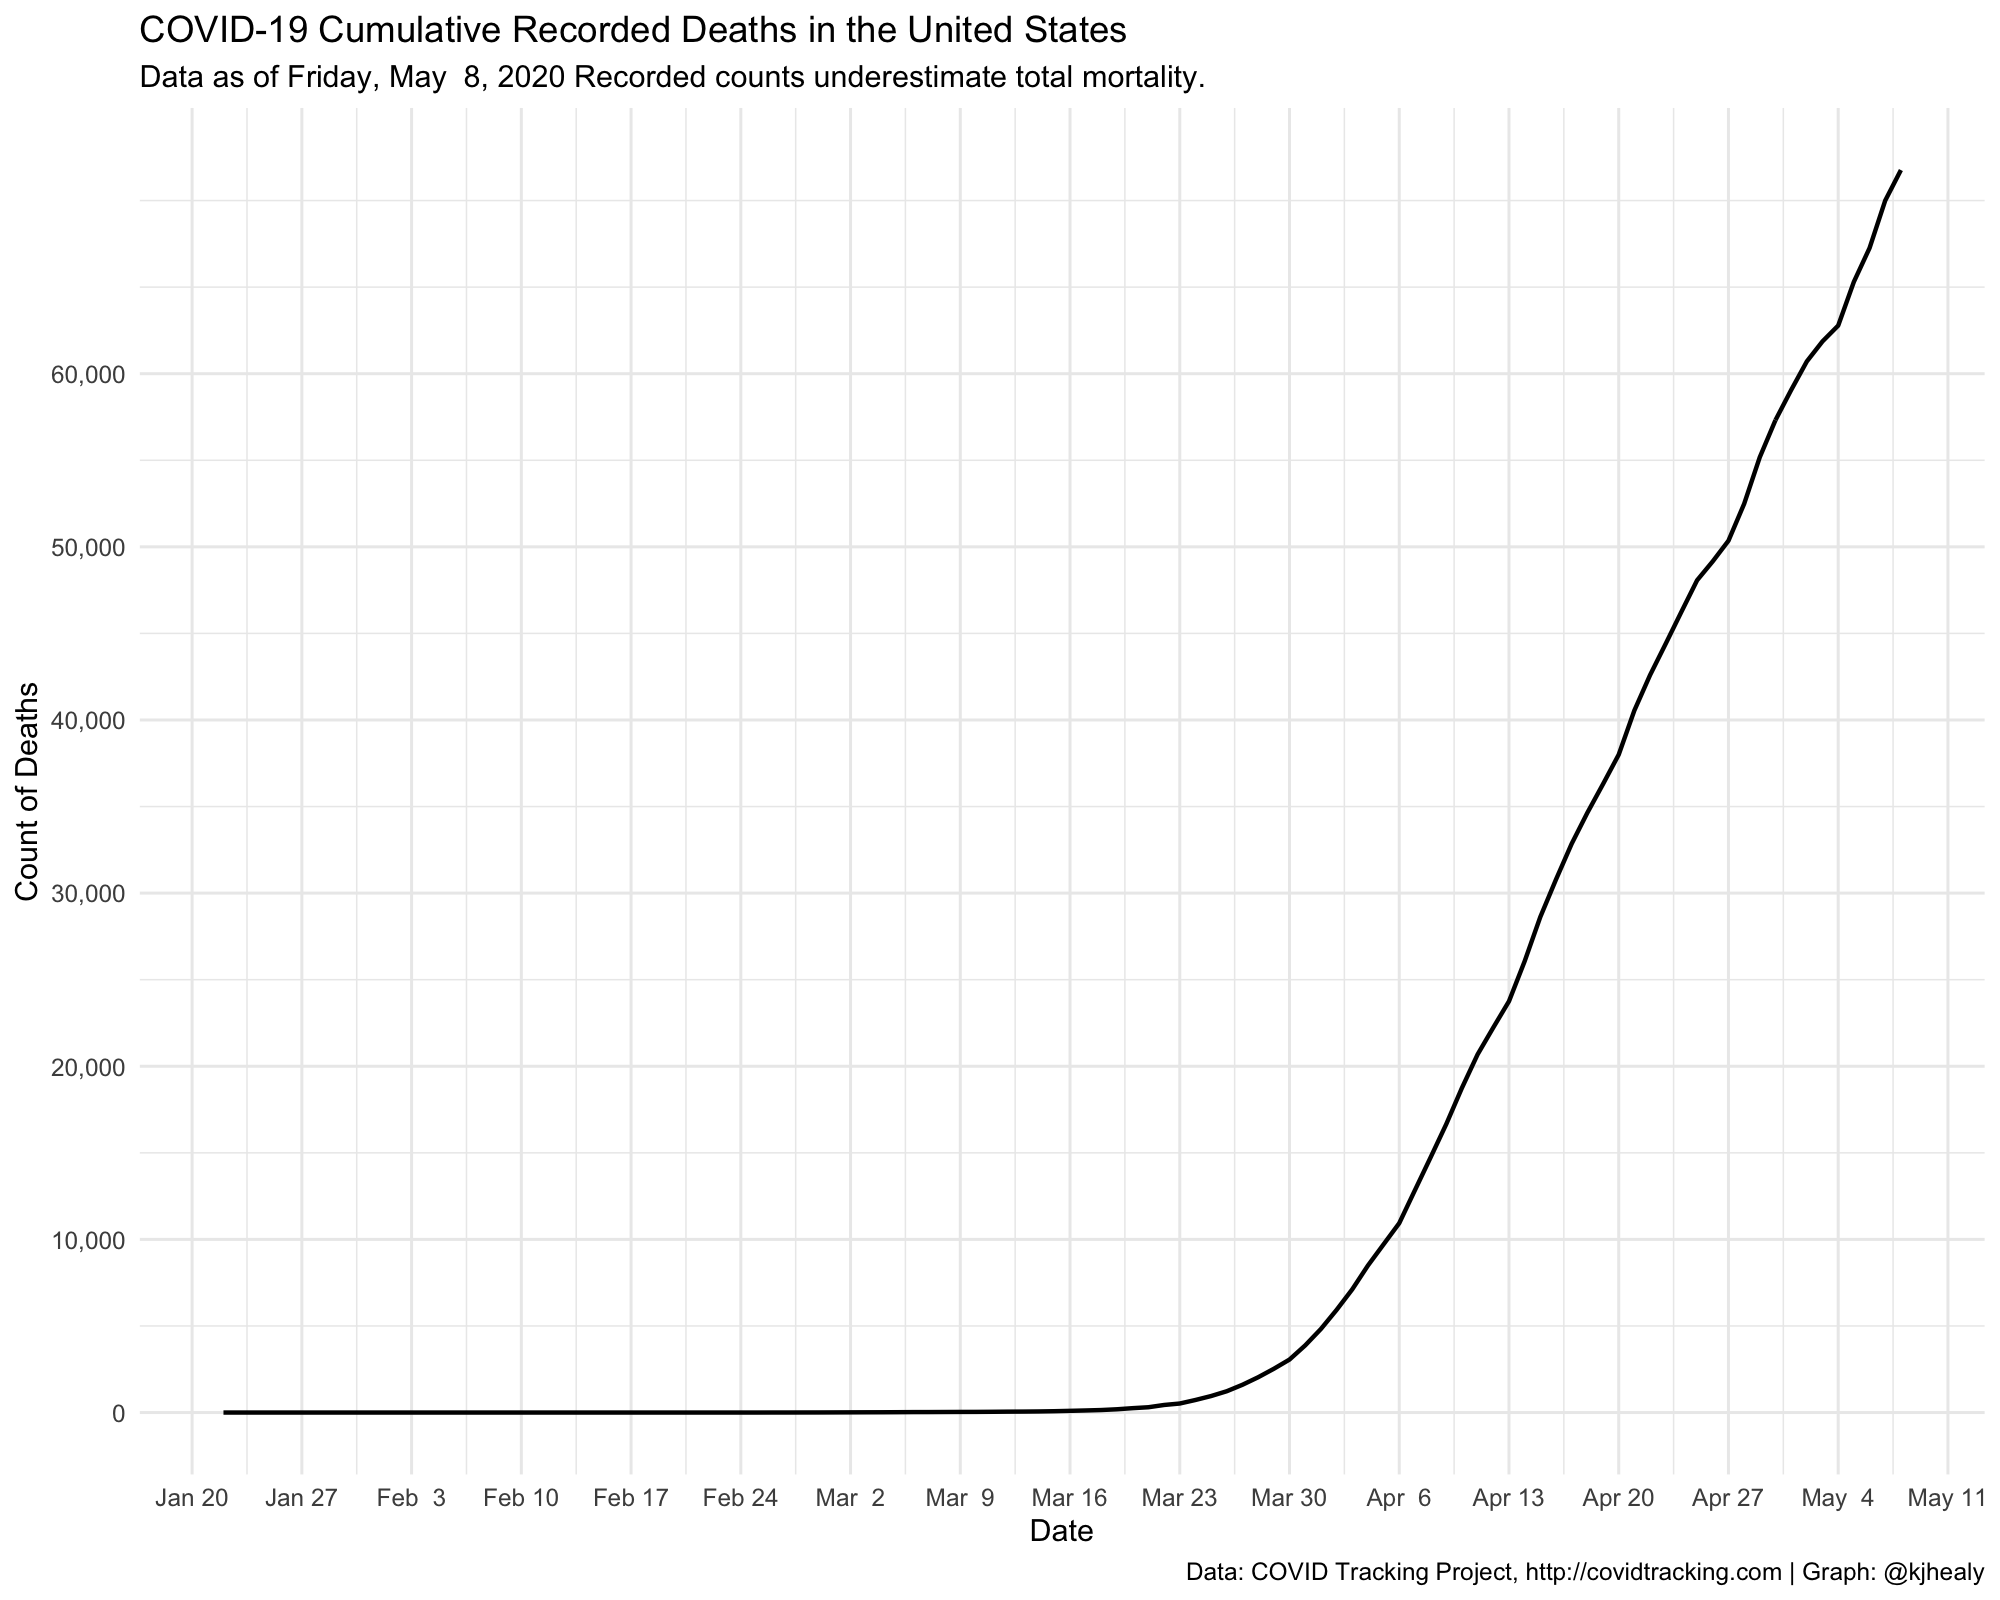
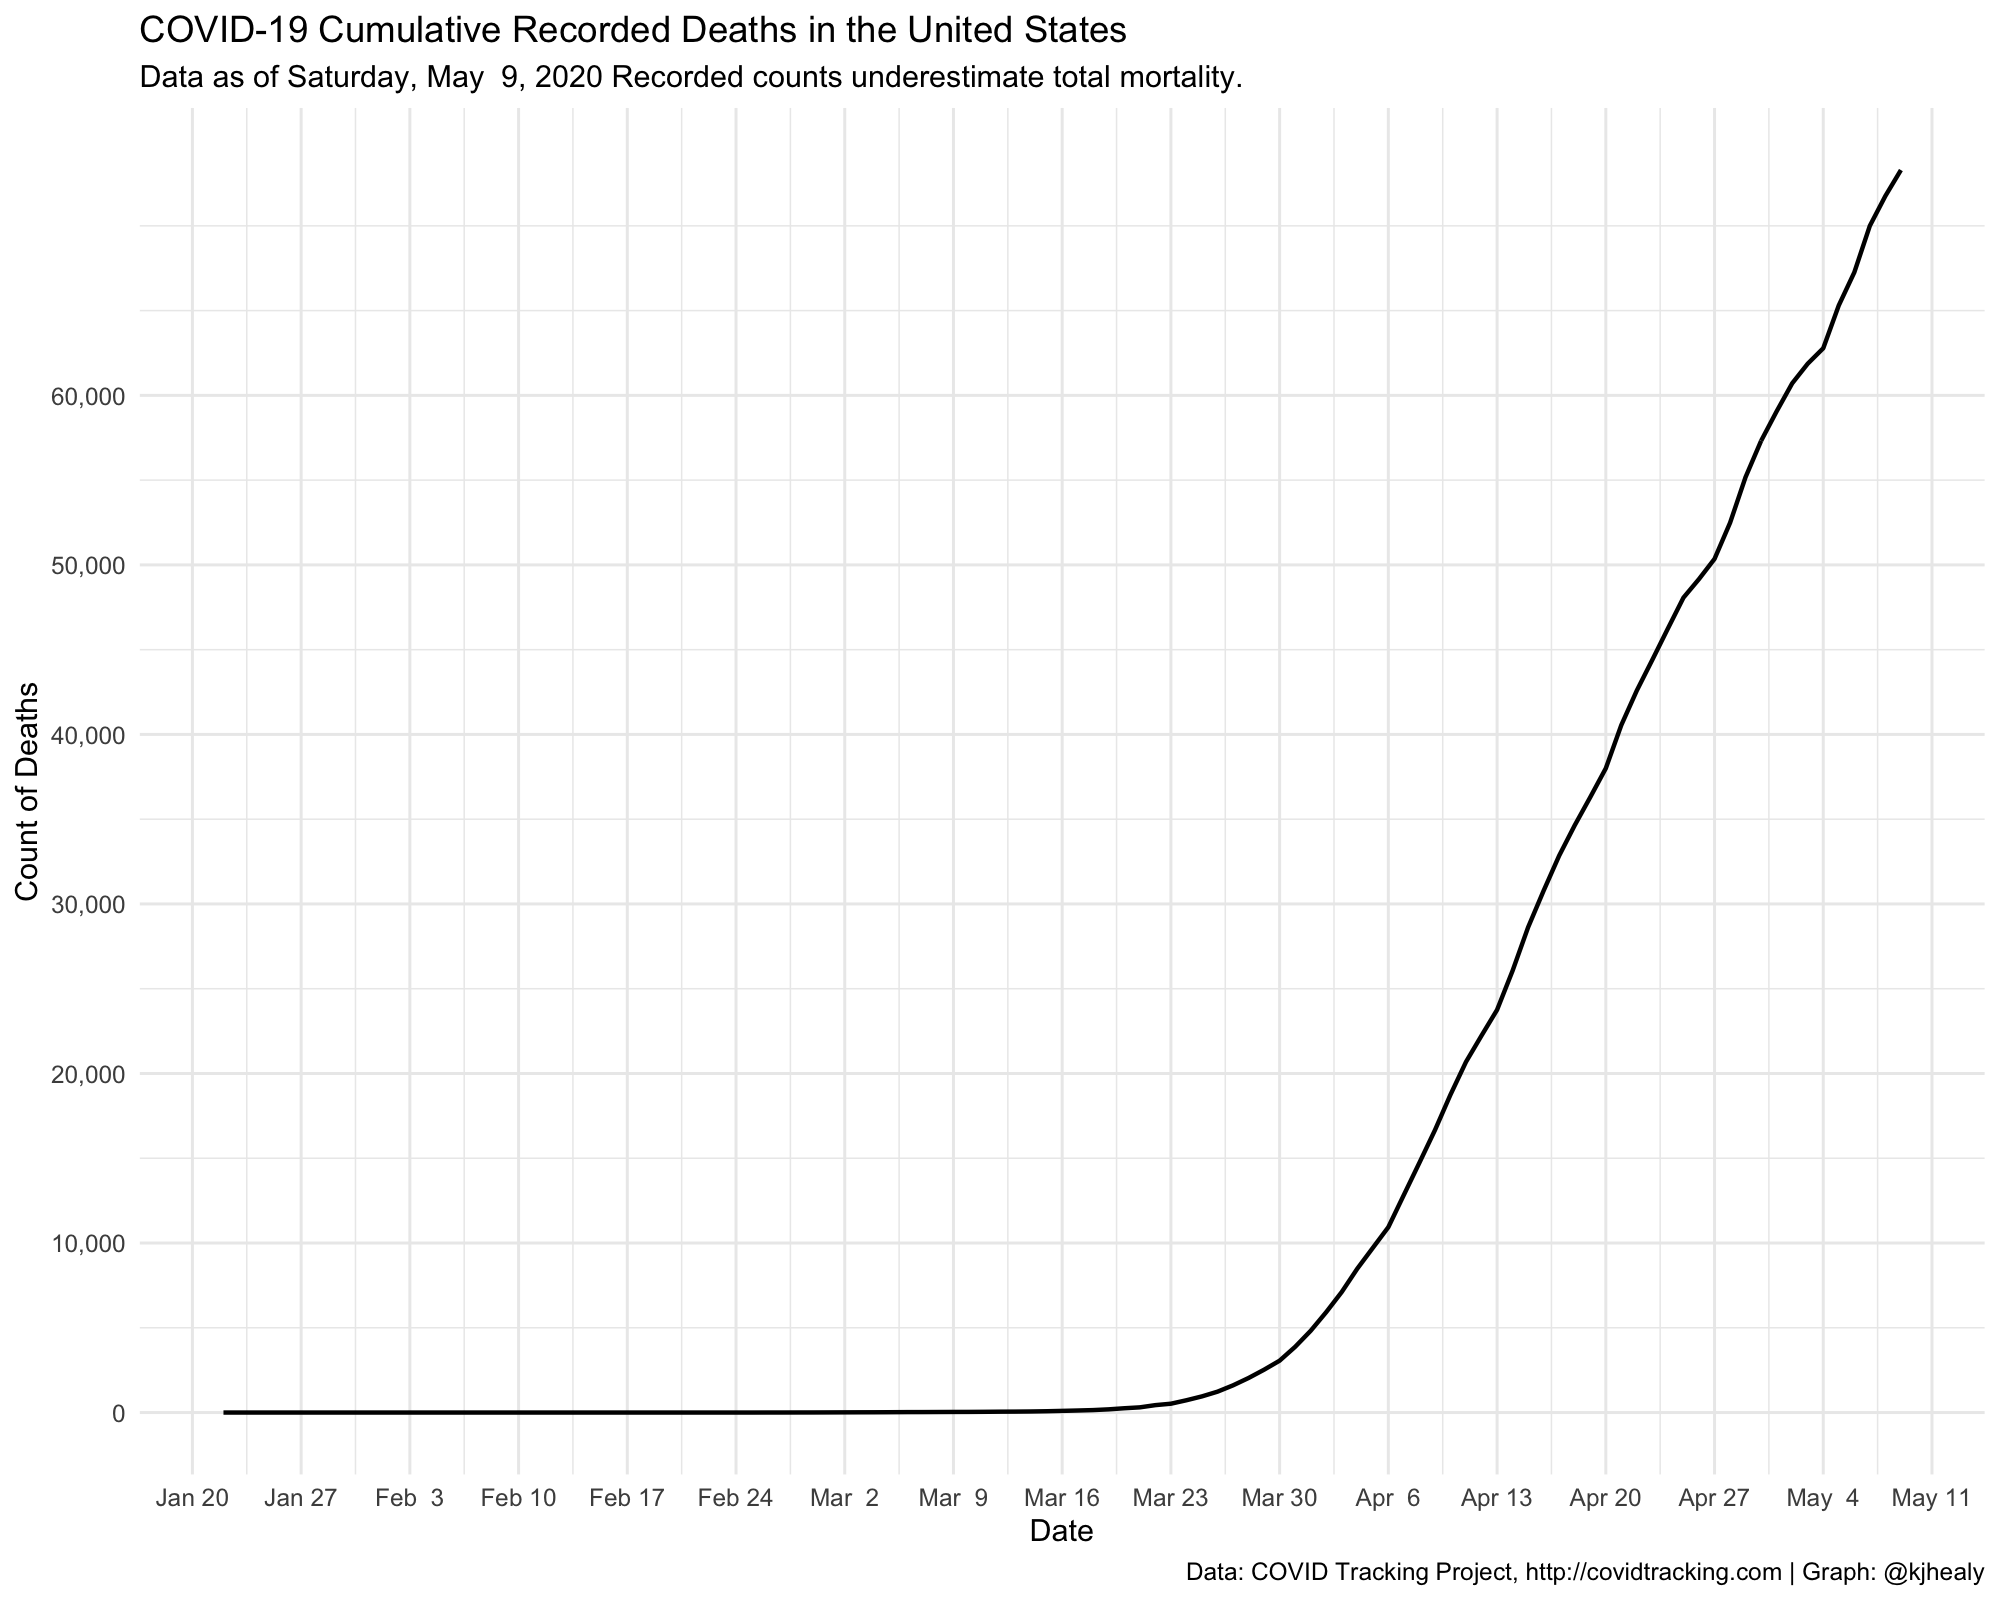
Built site for covdata: 0.1.8.9000@d242a87

diff --git a/articles/us-data.html b/articles/us-data.html
@@ -129,20 +129,20 @@
 <h2 class="hasAnchor">
 <a href="#covid-tracking-project-data" class="anchor"></a>COVID Tracking Project data</h2>
 <div class="sourceCode" id="cb2"><html><body><pre class="r"><span class="no">covus</span>
-<span class="co">#&gt; # A tibble: 64,818 x 5</span>
+<span class="co">#&gt; # A tibble: 65,826 x 5</span>
 <span class="co">#&gt;    date       state fips  measure                  count</span>
 <span class="co">#&gt;    &lt;date&gt;     &lt;chr&gt; &lt;chr&gt; &lt;chr&gt;                    &lt;dbl&gt;</span>
-<span class="co">#&gt;  1 2020-05-08 AK    02    positive                   377</span>
-<span class="co">#&gt;  2 2020-05-08 AK    02    negative                 25096</span>
-<span class="co">#&gt;  3 2020-05-08 AK    02    pending                     NA</span>
-<span class="co">#&gt;  4 2020-05-08 AK    02    hospitalized_currently      16</span>
-<span class="co">#&gt;  5 2020-05-08 AK    02    hospitalized_cumulative     NA</span>
-<span class="co">#&gt;  6 2020-05-08 AK    02    in_icu_currently            NA</span>
-<span class="co">#&gt;  7 2020-05-08 AK    02    in_icu_cumulative           NA</span>
-<span class="co">#&gt;  8 2020-05-08 AK    02    on_ventilator_currently     NA</span>
-<span class="co">#&gt;  9 2020-05-08 AK    02    on_ventilator_cumulative    NA</span>
-<span class="co">#&gt; 10 2020-05-08 AK    02    recovered                  305</span>
-<span class="co">#&gt; # … with 64,808 more rows</span></pre></body></html></div>
+<span class="co">#&gt;  1 2020-05-09 AK    02    positive                   378</span>
+<span class="co">#&gt;  2 2020-05-09 AK    02    negative                 26071</span>
+<span class="co">#&gt;  3 2020-05-09 AK    02    pending                     NA</span>
+<span class="co">#&gt;  4 2020-05-09 AK    02    hospitalized_currently       8</span>
+<span class="co">#&gt;  5 2020-05-09 AK    02    hospitalized_cumulative     NA</span>
+<span class="co">#&gt;  6 2020-05-09 AK    02    in_icu_currently            NA</span>
+<span class="co">#&gt;  7 2020-05-09 AK    02    in_icu_cumulative           NA</span>
+<span class="co">#&gt;  8 2020-05-09 AK    02    on_ventilator_currently     NA</span>
+<span class="co">#&gt;  9 2020-05-09 AK    02    on_ventilator_cumulative    NA</span>
+<span class="co">#&gt; 10 2020-05-09 AK    02    recovered                  318</span>
+<span class="co">#&gt; # … with 65,816 more rows</span></pre></body></html></div>
 <div id="draw-a-log-linear-graph-of-cumulative-reported-us-cases-" class="section level3">
 <h3 class="hasAnchor">
 <a href="#draw-a-log-linear-graph-of-cumulative-reported-us-cases-" class="anchor"></a>Draw a log-linear graph of cumulative reported US cases.</h3>
@@ -188,7 +188,7 @@
 
 <span class="co">#&gt; Warning: Transformation introduced infinite values in continuous y-axis</span>
 <span class="co">#&gt; Warning: Removed 15 row(s) containing missing values (geom_path).</span>
-<span class="co">#&gt; Warning: Removed 3272 rows containing missing values (geom_text_repel).</span></pre></body></html></div>
+<span class="co">#&gt; Warning: Removed 3328 rows containing missing values (geom_text_repel).</span></pre></body></html></div>
 <p><img src="us-data_files/figure-html/us-example-1.png" width="1000"></p>
 </div>
 <div id="draw-a-graph-of-cumulative-reported-us-deaths-aggregated-to-the-national-level" class="section level3">

diff --git a/reference/covus.html b/reference/covus.html
@@ -149,7 +149,7 @@
 
     <h2 class="hasAnchor" id="format"><a class="anchor" href="#format"></a>Format</h2>
 
-    <p>A tibble with 64,818 rows and 5 columns</p><dl>
+    <p>A tibble with 65,826 rows and 5 columns</p><dl>
 <dt>date</dt><dd><p>Date in YYYY-MM-DD format (date)</p></dd>
 <dt>state</dt><dd><p>Two letter State abbreviation (character)</p></dd>
 <dt>fips</dt><dd><p>State FIPS code (character)</p></dd>
